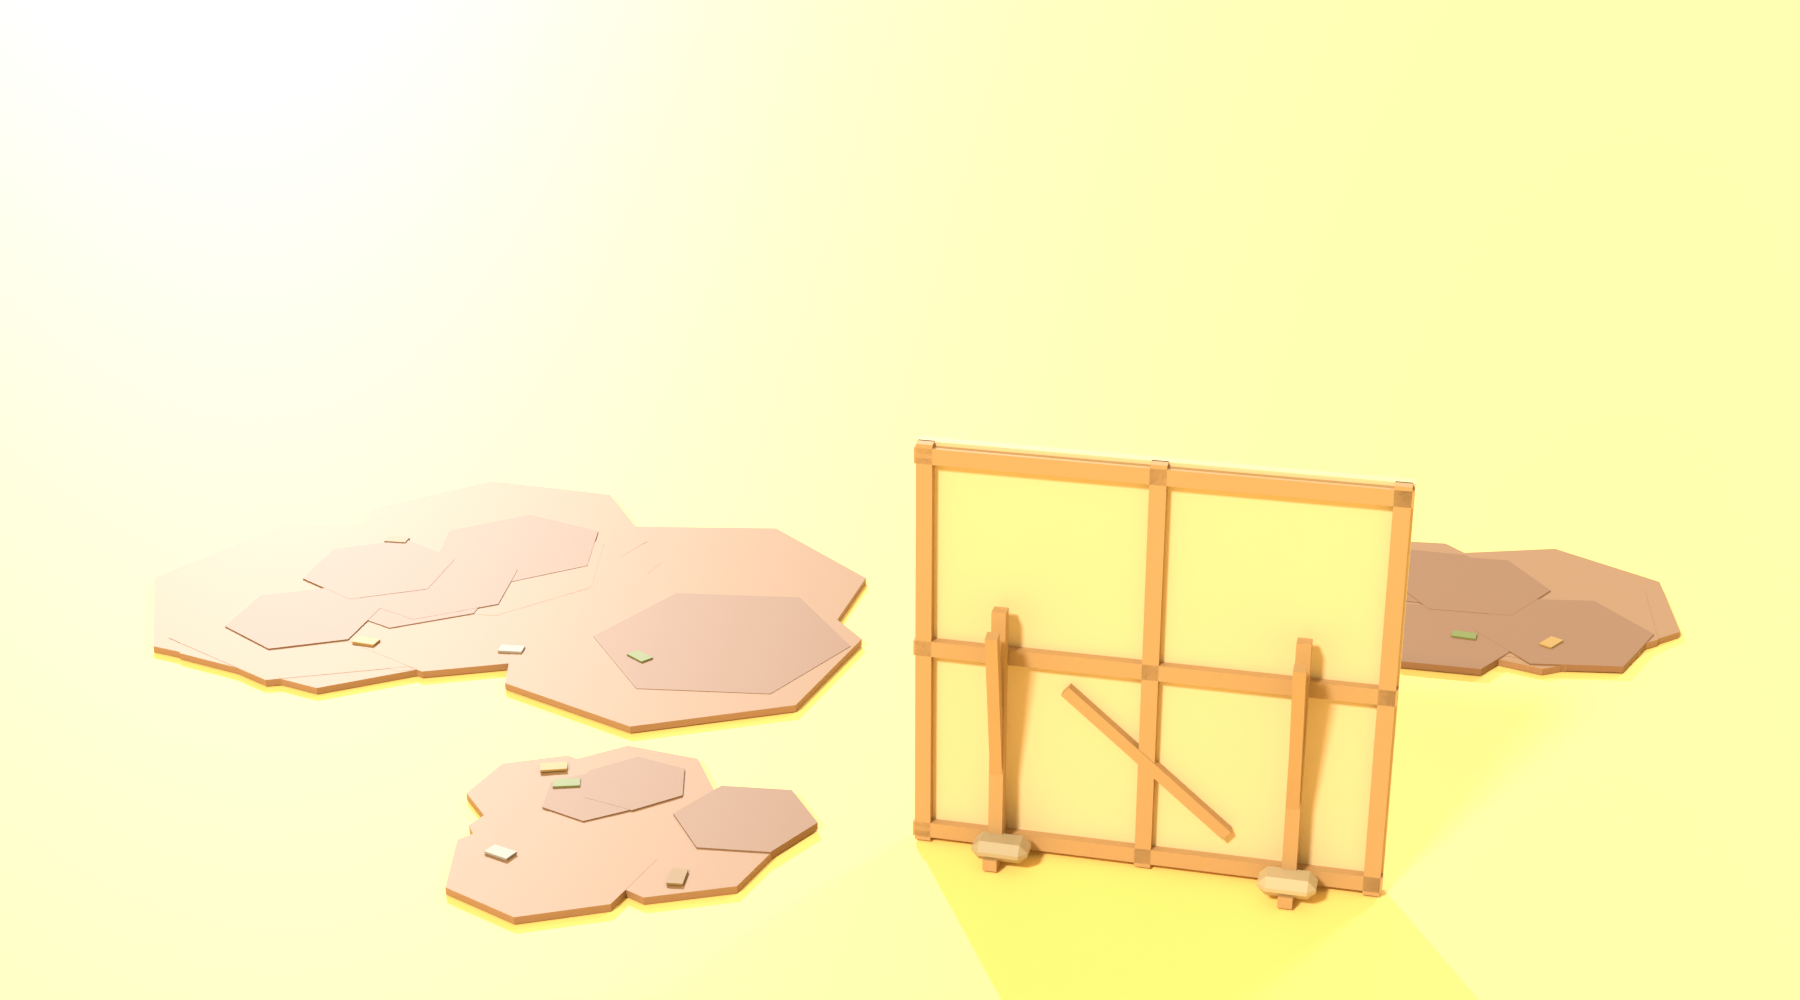
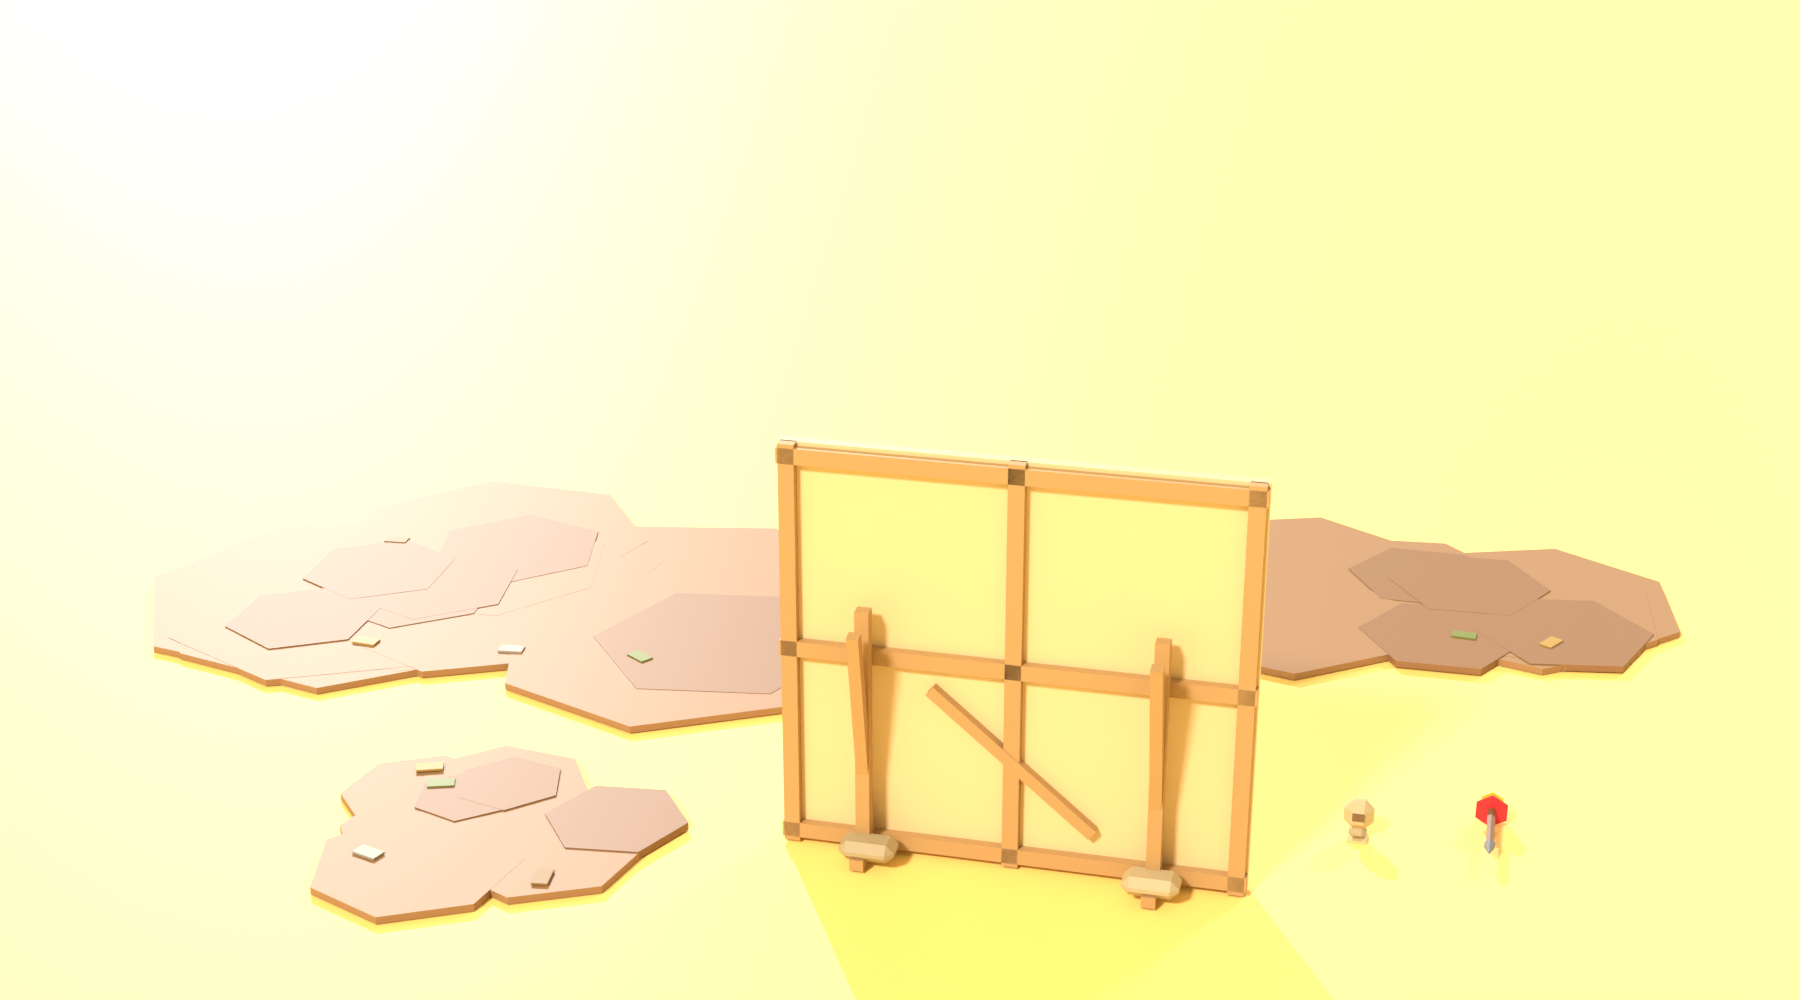
Jungle: bigger darts with red and gold tails, and a second dart a beat later

Changed region(s): [[0.1556, 0.434, 0.8711, 1.0]]

diff --git a/art/blender/jungle_kit.py b/art/blender/jungle_kit.py
@@ -659,11 +659,13 @@ def prop_sandbag():
 
 
 def prop_dart():
-    """A blowpipe dart from the temple's trap, flying toward -Y, centred on the origin."""
+    """A trap's dart, flying toward -Y, centred on the origin: big enough to read from the camera,
+    with a bright red and yellow feather tail."""
     return [
-        C((0, 0.1, 0), 0.05, 1.0, "Bark", rot=(90, 0, 0), seg=6),
-        K((0, -0.55, 0), 0.07, 0.0, 0.25, "Steel", rot=(90, 0, 0), seg=6),
-        K((0, 0.62, 0), 0.22, 0.05, 0.35, "Carpet", rot=(-90, 0, 0), seg=6),  # the fluff
+        C((0, 0.2, 0), 0.11, 2.0, "Bark", rot=(90, 0, 0), seg=6),
+        K((0, -1.1, 0), 0.15, 0.0, 0.5, "Steel", rot=(90, 0, 0), seg=6),
+        K((0, 1.25, 0), 0.45, 0.1, 0.7, "Carpet", rot=(-90, 0, 0), seg=6),  # the fluff
+        K((0, 1.55, 0), 0.32, 0.05, 0.45, "Gold", rot=(-90, 0, 0), seg=6),
     ]
 
 
@@ -815,6 +817,7 @@ KIT = [
     ("JungleShrineBack", jungle_shrine_back),
     ("PropSandbag", prop_sandbag),
     ("PropDart", prop_dart),
+    ("PropDart2", prop_dart),  # the second dart, a beat after the first
     ("JungleBackdrop", jungle_backdrop),
     ("JungleBackdropSide", jungle_backdrop_side),
     ("JungleSignpost", jungle_signpost),
@@ -822,7 +825,7 @@ KIT = [
 ]
 
 # Sunk into the ground: the mound is the top of a squashed blob.
-NO_LIFT = {"PropSandbag", "PropDart", "JungleMound", "JungleDirtPatch", "JungleDirtPatchSmall", "JungleDirtPatchLong"}
+NO_LIFT = {"PropSandbag", "PropDart", "PropDart2", "JungleMound", "JungleDirtPatch", "JungleDirtPatchSmall", "JungleDirtPatchLong"}
 
 LINEUPS = {
     "jungle_kit.png": (["IdolPedestal", "JungleFern", "JungleTorch", "JungleRuin", "JunglePalm", "JungleTree"], ["JungleTemple"]),
